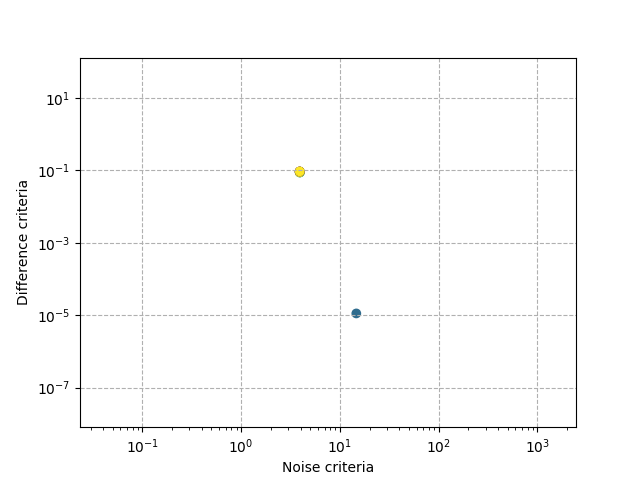
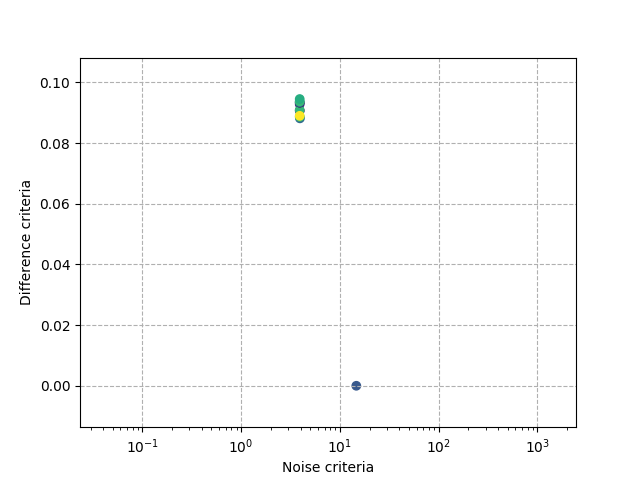
Fixed once again

diff --git a/main.py b/main.py
@@ -23,7 +23,6 @@ def plot_criteria(noise, difference,
     plt.xlabel('Noise criteria')
     plt.xscale('log')
     plt.ylabel('Difference criteria')
-    plt.yscale('log')
     colors = np.random.rand(len(noise))
     plt.scatter(noise, difference, c=colors)
     plt.grid(linestyle='--')
@@ -33,6 +32,7 @@ def plot_criteria(noise, difference,
 
 if __name__ == '__main__':
     # Functions to work on
+
     function = lambda x: np.sin(x) + 0.5
     noisy_function = ssf.uniform_noise(function, amp=0.5)
 
